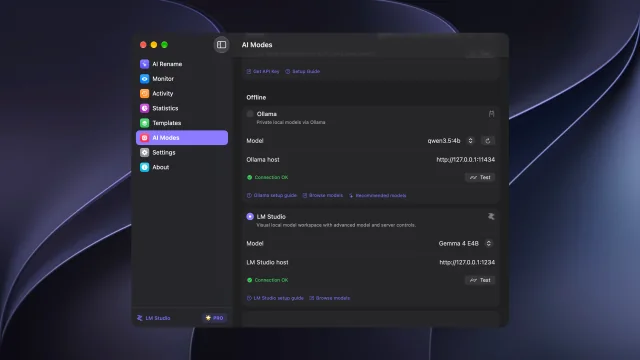
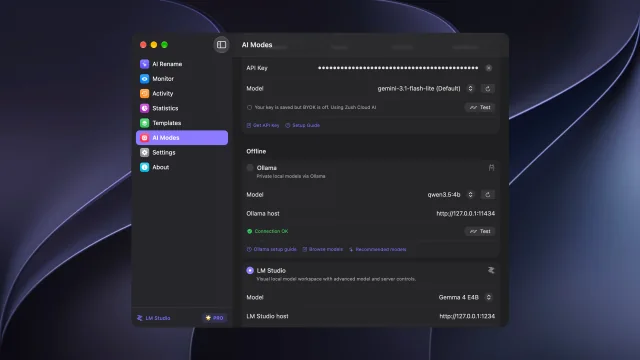
fix(promo): smaller slide titles, no Windows frame border, active LM Studio shot
- Shave the dark window frame border from Windows captures before placing
  them on store slides.
- Reduce slide title sizes on both stores.
- Recapture the macOS LM Studio scene with an active window; the dark shot
  re-applies the fixture instead of reusing the light one.

diff --git a/scripts/promo/store-listing/template.html b/scripts/promo/store-listing/template.html
@@ -84,7 +84,7 @@
     --w: 1440px; --h: 900px;
     --pad-left: 92px; --pad-right: 64px;
     --copy-width: 440px; --copy-center: 50%;
-    --title-size: 72px; --sub-size: 25px; --gap: 28px;
+    --title-size: 62px; --sub-size: 25px; --gap: 28px;
     --win-width: 812px; --win-radius: 26px;
     --scrim-pos: 19% 48%;
   }
@@ -94,7 +94,7 @@
     --w: 1920px; --h: 1080px;
     --pad-left: 124px; --pad-right: 96px;
     --copy-width: 540px; --copy-center: 44%;
-    --title-size: 92px; --sub-size: 32px; --gap: 34px;
+    --title-size: 80px; --sub-size: 32px; --gap: 34px;
     --win-width: 1060px; --win-radius: 8px;
     --scrim-pos: 19% 42%;
   }
